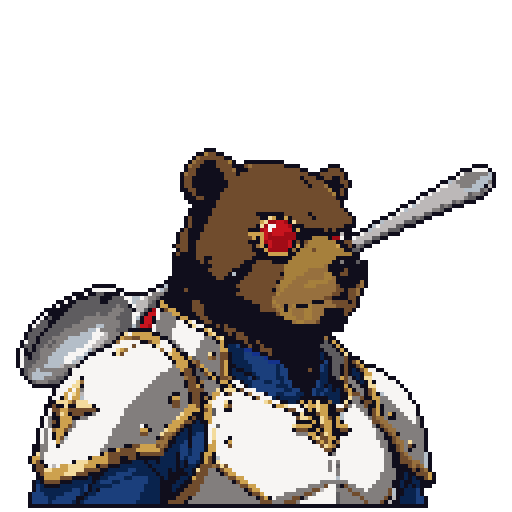
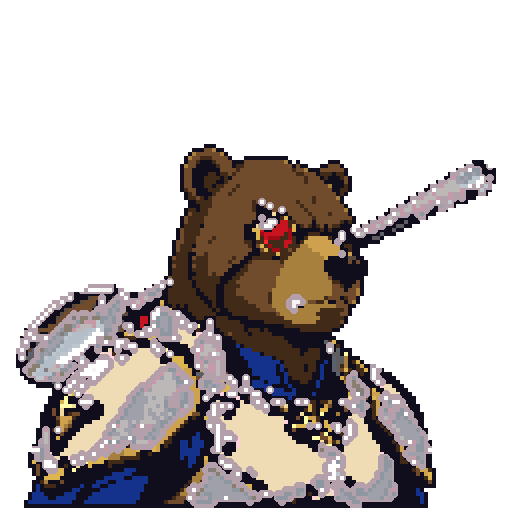
art(npcs): pronounce faces @128 (outlines, eyes, cleanup)
Bold-face v6 gens + pipeline: mild face unsharp, protect face detail
during cine palette remap, selective outlines, orphan cleanup.
Thicken Don spoon; strip Teknium non-goggle red/warm stray pixels.

Changed region(s): [[0.0312, 0.2812, 0.9688, 1.0], [0.0312, 0.9688, 0.0625, 1.0]]

diff --git a/scripts/asset_px3_npcs.py b/scripts/asset_px3_npcs.py
@@ -19,8 +19,8 @@ from asset_px3 import to_native_mode
 
 NPC_N = 128
 NPC_FACTOR = 4
-PORT_COLORS = 32
-BUST_COLORS = 28
+PORT_COLORS = 40
+BUST_COLORS = 36
 PORT_H = 120
 BUST_H = 96
 IDLE_H = 72
@@ -28,10 +28,10 @@ OUTLINE = (16, 14, 28)
 
 # Lab k-means palettes sampled from Clawpocalypse cine/v3 portraits (not generations).
 CINE_PALETTES = {
-  "don_piedro": [[16,14,28],[205,161,78],[247,245,243],[27,63,124],[188,184,184],[33,21,22],[51,33,20],[243,219,157],[166,128,60],[20,50,140],[180,190,200],[200,20,30],[240,220,180],[90,55,30],[112,76,45],[64,62,63],[161,11,22],[130,126,125],[94,92,95],[66,42,24],[151,112,62],[215,203,179],[9,35,77],[43,26,19],[7,25,55]],
-  "nous_girl": [[16,14,28],[252,251,247],[93,91,90],[164,161,159],[130,128,127],[213,210,208],[191,188,186],[254,254,254],[40,35,35],[70,65,65],[110,105,105],[230,210,195],[245,220,205],[20,18,18],[55,50,48],[150,145,140],[180,160,145]],
+  "don_piedro": [[16,14,28],[205,161,78],[247,245,243],[27,63,124],[188,184,184],[33,21,22],[51,33,20],[243,219,157],[166,128,60],[20,50,140],[180,190,200],[200,20,30],[240,220,180],[90,55,30],[112,76,45],[64,62,63],[161,11,22],[130,126,125],[94,92,95],[66,42,24],[151,112,62],[215,203,179],[9,35,77],[43,26,19],[7,25,55],[230,200,150],[120,80,50],[80,50,30],[255,40,40],[220,180,80],[160,160,170]],
+  "nous_girl": [[16,14,28],[252,251,247],[93,91,90],[164,161,159],[130,128,127],[213,210,208],[191,188,186],[254,254,254],[40,35,35],[70,65,65],[110,105,105],[230,210,195],[245,220,205],[20,18,18],[55,50,48],[150,145,140],[180,160,145],[255,220,190],[240,190,160],[200,150,120],[60,40,30],[30,20,18],[80,55,40]],
   "teknium": [[16,14,28],[67,169,123],[5,85,48],[247,191,139],[221,12,35],[117,226,166],[11,78,60],[23,115,55],[40,160,130],[20,120,100],[80,200,160],[10,90,70],[255,255,255],[240,240,240],[30,30,30],[85,57,43],[200,30,40],[180,160,140],[50,140,100]],
-  "southpaw": [[16,14,28],[92,22,22],[197,122,74],[155,91,56],[110,25,22],[193,105,56],[31,30,34],[66,62,65],[65,16,17],[220,140,90],[40,38,42],[120,120,130],[250,220,190],[180,60,40],[90,88,95],[140,50,40]],
+  "southpaw": [[16,14,28],[92,22,22],[197,122,74],[155,91,56],[110,25,22],[193,105,56],[31,30,34],[66,62,65],[65,16,17],[220,140,90],[40,38,42],[120,120,130],[250,220,190],[180,60,40],[90,88,95],[140,50,40],[255,255,255],[230,180,140],[200,140,100],[60,40,30],[30,20,15],[240,100,50]],
 }
 
 NPCS = [
@@ -123,17 +123,32 @@ def clothing_lift_preserve_sat(keyed: Image.Image, lum_ceil: float = 70.0, lift:
     a[..., :3] = rgb.astype(np.uint8)
     return Image.fromarray(a, "RGBA")
 
-def remap_to_palette(native: Image.Image, palette: list[list[int]]) -> Image.Image:
-    """Map every opaque native pixel to nearest cine palette colour (RGB Euclidean)."""
+def remap_to_palette(native: Image.Image, palette: list[list[int]], protect_face: bool = True) -> Image.Image:
+    """Map opaque pixels to nearest cine palette colour; optionally keep high-contrast face pixels."""
     a = np.asarray(native).copy()
     pal = np.asarray(palette, dtype=np.float32)
     m = a[..., 3] > 0
     if not m.any():
         return native
-    pix = a[m, :3].astype(np.float32)
+    pre = a[..., :3].astype(np.float32).copy()
+    pix = pre[m]
     d = ((pix[:, None, :] - pal[None, :, :]) ** 2).sum(-1)
-    a[m, :3] = pal[d.argmin(1)].astype(np.uint8)
-    # force outline colour on silhouette edge
+    mapped = pal[d.argmin(1)]
+    a[m, :3] = mapped.astype(np.uint8)
+    if protect_face:
+        lum = pre.mean(-1)
+        mx, mn = pre.max(-1), pre.min(-1)
+        sat = (mx - mn) / np.maximum(mx, 1)
+        skin = m & (lum > 70) & (lum < 235) & (sat < 0.55) & (pre[..., 0] > pre[..., 2] * 0.7)
+        # high-local-contrast inside skin = eyes/mouth/nose — keep original quantized colour
+        gy = ndimage.sobel(lum, axis=0); gx = ndimage.sobel(lum, axis=1)
+        mag = np.hypot(gx, gy)
+        detail = skin & (mag >= (np.percentile(mag[skin], 55) if skin.any() else 999))
+        # also keep very dark eye/mouth pixels and white highlights on/near skin
+        dark = skin & (lum < 60)
+        hi = m & (lum > 230) & ndimage.binary_dilation(skin, iterations=2)
+        keep = detail | dark | hi
+        a[keep, :3] = pre[keep].astype(np.uint8)
     edge = m & ~ndimage.binary_erosion(m, structure=np.array([[0, 1, 0], [1, 1, 1], [0, 1, 0]]))
     a[edge, :3] = OUTLINE
     return Image.fromarray(a, "RGBA")
@@ -156,23 +171,185 @@ def fit_native(keyed, colors, target_h, max_side=NPC_N - 2):
         n = to_native_mode(keyed, colors, height=max_side)
     return n
 
+
+def face_enhance(keyed: Image.Image) -> Image.Image:
+    """Mild unsharp on face skin only — preserve gen eye/mouth pixels."""
+    a = np.asarray(keyed).astype(np.float32)
+    rgb, alpha = a[..., :3], a[..., 3]
+    opaque = alpha > 128
+    if not opaque.any():
+        return keyed
+    lum = rgb.mean(-1)
+    mx, mn = rgb.max(-1), rgb.min(-1)
+    sat = (mx - mn) / np.maximum(mx, 1)
+    skin = opaque & (lum > 75) & (lum < 235) & (sat < 0.5) & (rgb[..., 0] > rgb[..., 2] * 0.75)
+    skin = ndimage.binary_dilation(skin, iterations=2) & opaque
+    blur = ndimage.gaussian_filter(lum, sigma=1.2)
+    sharp = np.clip(lum + 0.85 * (lum - blur), 0, 255)
+    scale = np.clip(sharp / np.maximum(lum, 1e-3), 0.75, 1.35)
+    out = rgb.copy()
+    out[skin] = np.clip(rgb[skin] * scale[skin, None], 0, 255)
+    a[..., :3] = out
+    return Image.fromarray(a.astype(np.uint8), "RGBA")
+
+def cleanup_orphans(native: Image.Image) -> Image.Image:
+    """Remove 1-pixel orphans and fill 1px holes inside silhouette."""
+    a = np.asarray(native).copy()
+    m = a[..., 3] > 0
+    # drop tiny components
+    lab, n = ndimage.label(m)
+    if n:
+        sizes = ndimage.sum(np.ones_like(lab), lab, range(1, n + 1))
+        keep = np.isin(lab, [i + 1 for i, s in enumerate(sizes) if s >= max(3, sizes.max() * 0.002)])
+        a[..., 3] = np.where(keep, a[..., 3], 0)
+        m = a[..., 3] > 0
+    # fill single-pixel holes
+    holes = (~m) & ndimage.binary_dilation(m)
+    # only fill if all 4-neighbors opaque
+    for y, x in zip(*np.where(holes)):
+        nb = [(y-1,x),(y+1,x),(y,x-1),(y,x+1)]
+        cols = []
+        ok = True
+        for yy, xx in nb:
+            if yy < 0 or xx < 0 or yy >= m.shape[0] or xx >= m.shape[1] or not m[yy, xx]:
+                ok = False; break
+            cols.append(a[yy, xx, :3])
+        if ok and cols:
+            a[y, x, :3] = np.median(cols, axis=0).astype(np.uint8)
+            a[y, x, 3] = 255
+    return Image.fromarray(a, "RGBA")
+
+def strengthen_face_outlines(native: Image.Image) -> Image.Image:
+    """Selective 1px darken on strongest face-interior edges only."""
+    a = np.asarray(native).copy()
+    m = a[..., 3] > 0
+    if m.sum() < 20:
+        return native
+    rgb = a[..., :3].astype(np.int16)
+    lum = rgb.mean(-1).astype(float)
+    gy = ndimage.sobel(lum, axis=0); gx = ndimage.sobel(lum, axis=1)
+    mag = np.hypot(gx, gy)
+    mx = rgb.max(-1); mn = rgb.min(-1)
+    sat = (mx - mn) / np.maximum(mx, 1)
+    skin = m & (lum > 60) & (lum < 230) & (sat < 0.6)
+    skin = ndimage.binary_dilation(skin, iterations=1) & m
+    if not skin.any():
+        return native
+    thr = np.percentile(mag[skin], 82)
+    edge = skin & (mag >= thr) & ndimage.binary_erosion(m)
+    a[edge, :3] = OUTLINE
+    return Image.fromarray(a, "RGBA")
+
+def fix_teknium_red_neck(native: Image.Image) -> Image.Image:
+    """Keep red only where it forms goggle stripes (red+white checker in a compact upper band); else skin."""
+    a = np.asarray(native).copy()
+    rgb = a[..., :3].astype(np.int16)
+    m = a[..., 3] > 0
+    red = m & (rgb[..., 0] > 110) & (rgb[..., 0] > rgb[..., 1] + 35) & (rgb[..., 0] > rgb[..., 2] + 35) & (rgb[..., 1] < 140)
+    white = m & (rgb[..., 0] > 210) & (rgb[..., 1] > 210) & (rgb[..., 2] > 210)
+    # goggle candidates: red adjacent to white AND white adjacent to red, in upper half of sprite
+    ys = np.where(m)[0]
+    if len(ys) == 0:
+        return native
+    y0, y1 = int(ys.min()), int(ys.max())
+    y_mid = y0 + int(0.45 * (y1 - y0))  # goggles live in upper ~45% of character
+    upper = np.zeros_like(m); upper[:y_mid, :] = True
+    red_u = red & upper
+    white_u = white & upper
+    # stripe = red touching white within upper band
+    keep = red_u & ndimage.binary_dilation(white_u, iterations=2)
+    # also keep white-touching reds that are in a horizontal band of dense red+white
+    remove = red & ~keep
+    if remove.any():
+        skin = m & ~red & (rgb[..., 0] > 130) & (rgb[..., 1] > 85) & (rgb[..., 1] < 220) & (rgb[..., 2] > 60) & (rgb[..., 0] + 10 >= rgb[..., 2])
+        skin_col = np.median(rgb[skin], axis=0).astype(np.uint8) if skin.any() else np.array([220, 170, 130], np.uint8)
+        # for remove in hair region (high teal neighbor), use hair colour instead
+        teal = m & (rgb[..., 1] > 100) & (rgb[..., 2] > 70) & (rgb[..., 0] < 120)
+        hair_col = np.median(rgb[teal], axis=0).astype(np.uint8) if teal.any() else skin_col
+        near_hair = ndimage.binary_dilation(teal, iterations=2)
+        a[remove & near_hair, :3] = hair_col
+        a[remove & ~near_hair, :3] = skin_col
+    return Image.fromarray(a, "RGBA")
+
+
+def boost_eye_pixels(native: Image.Image) -> Image.Image:
+    """In skin neighborhoods, reinforce dark eye clusters with pupil + 1 white highlight."""
+    a = np.asarray(native).copy()
+    rgb = a[..., :3].astype(np.int16)
+    m = a[..., 3] > 0
+    lum = rgb.mean(-1)
+    mx, mn = rgb.max(-1), rgb.min(-1)
+    sat = (mx - mn) / np.maximum(mx, 1)
+    skin = m & (lum > 90) & (lum < 230) & (sat < 0.55) & (rgb[..., 0] > rgb[..., 2] * 0.75)
+    dark = m & (lum < 55)
+    # dark blobs touching skin = candidate eyes
+    touch = dark & ndimage.binary_dilation(skin, iterations=2)
+    lab, n = ndimage.label(touch)
+    for i in range(1, n + 1):
+        ys, xs = np.where(lab == i)
+        if not (3 <= len(ys) <= 40):
+            continue
+        # paint center darker + one highlight
+        cy, cx = int(ys.mean()), int(xs.mean())
+        for dy, dx in [(0,0),(0,1),(1,0)]:
+            yy, xx = cy+dy, cx+dx
+            if 0 <= yy < a.shape[0] and 0 <= xx < a.shape[1] and m[yy, xx]:
+                a[yy, xx, :3] = (16, 14, 28)
+        hy, hx = cy - 1, cx + 1
+        if 0 <= hy < a.shape[0] and 0 <= hx < a.shape[1] and m[hy, hx]:
+            a[hy, hx, :3] = (255, 255, 255)
+    return Image.fromarray(a, "RGBA")
+
+def thicken_spoon(native: Image.Image) -> Image.Image:
+    """Dilate thin silver spoon handle pixels so the prop reads."""
+    a = np.asarray(native).copy()
+    rgb = a[..., :3].astype(np.int16)
+    m = a[..., 3] > 0
+    silver = m & (rgb[..., 0] > 140) & (rgb[..., 1] > 140) & (rgb[..., 2] > 140) & (np.abs(rgb[..., 0] - rgb[..., 1]) < 35) & (np.abs(rgb[..., 1] - rgb[..., 2]) < 35)
+    # also mid greys that are spoon
+    grey = m & (rgb.mean(-1) > 120) & (rgb.mean(-1) < 210) & (rgb.std(-1) < 18)
+    spoon = silver | grey
+    if spoon.sum() < 8:
+        return native
+    dil = ndimage.binary_dilation(spoon, iterations=1) & m
+    add = dil & ~spoon
+    if add.any():
+        # paint with median spoon colour
+        col = np.median(rgb[spoon], axis=0).astype(np.uint8)
+        a[add, :3] = col
+        a[add, 3] = 255
+    return Image.fromarray(a, "RGBA")
+
+
 def process_npc(key: str, keyed: Image.Image, colors: int, height: int) -> Image.Image:
     allow_teal = key == "teknium"
     k = strip_key_greens(keyed, allow_teal=allow_teal)
     if key in ("teknium", "southpaw"):
         k = clothing_lift_preserve_sat(k)
+    k = face_enhance(k)
     n = fit_native(k, colors, height)
     n = remap_to_palette(n, CINE_PALETTES[key])
-    # second green strip after remap for non-teknium
     if key != "teknium":
         n = strip_key_greens(n, allow_teal=False)
+    n = strengthen_face_outlines(n)
+    n = cleanup_orphans(n)
+    if key == "teknium":
+        n = fix_teknium_red_neck(n)
+    else:
+        n = boost_eye_pixels(n)
+    if key == "don_piedro":
+        n = thicken_spoon(n)
+        n = thicken_spoon(n)  # second pass for readable handle
+        n = boost_eye_pixels(n)
+    n = strengthen_face_outlines(n)
+    n = cleanup_orphans(n)
     return n
 
 def main():
     out = A / "px3" / "npcs"; out.mkdir(parents=True, exist_ok=True); entries = []
     for e in NPCS:
         key = e["id"].split(".")[1]
-        src = SRC / f"px3_npc_{key}_v5.jpg"
+        src = SRC / f"px3_npc_{key}_v6.jpg"
         keyed = key_magenta(src)
         port = process_npc(key, keyed, PORT_COLORS, PORT_H)
         pcv = place_npc(port, (NPC_N - port.width) // 2, NPC_N - 1 - port.height)

diff --git a/assets/PROVENANCE.md b/assets/PROVENANCE.md
@@ -53,15 +53,15 @@ Kyle asked: "i want them to be more pixelated. regenerate them entirely please i
 | px3/items/binary_crown, propeller_beanie, syntax_wizard, pixel_shades, gold_monocle, circuit_wings, tiny_jetpack, ember_halo, data_orbit, cozy_scarf, heart_bubble, plush_cushion, royal_ribbon | source/px3_item_{crown,beanie,wizard,shades,monocle,wings,jetpack,aura_flame,aura_orbit,scarf,emote,cushion,ribbon}_v1.jpg |
 | px3/palettes, px3/markings, px3/overlays | procedural |
 
-### NPCs (launch-003) — palette/key fix, 2026-11-05
-Kyle reviewed the prior 128px pass: Teknium hair washed white, Don Piedro palette muddy, green in Nous Girl hair. Fixes: regenerate on **magenta** chroma key (teal hair safe), drop global brighten (clothing-only sat-preserving lift for dark kits), Lab k-means palettes sampled from **cine/v3 portraits** remapped after quantize, strip chroma-green fringe (teal allowed only for Teknium). Still cine portraits primary, title secondary; not heroes/portraits or sprites. Native **128×128** factor 4. 4 generations (`*_v5.jpg`).
+### NPCs (launch-003) — face readability pass, 2026-11-05
+Kyle: facial features still not pronounced enough on 37f5fa0. Kept magenta key, cine Lab palettes, 128 native. Regenerated with bold-face prompts (`*_v6.jpg`, 4 gens). Pipeline: mild face unsharp, protect high-contrast face pixels during palette remap, selective face outlines, orphan cleanup, Teknium non-goggle red/warm stray removal, Don spoon thicken. Portrait + dialog + idle. Pets stay 32.
 
 | Output | Source | Reference (primary) |
 |---|---|---|
-| px3/npcs/don_piedro_{portrait,dialog,idle_*} | source/px3_npc_don_piedro_v5.jpg | cine/v3/portraits/don_piedro.png |
-| px3/npcs/nous_girl_* | source/px3_npc_nous_girl_v5.jpg | cine/v3/portraits/nous_girl.png |
-| px3/npcs/teknium_* | source/px3_npc_teknium_v5.jpg | cine/v3/portraits/teknium.png |
-| px3/npcs/southpaw_* | source/px3_npc_southpaw_v5.jpg | cine/v3/portraits/turbofit.png |
+| px3/npcs/don_piedro_{portrait,dialog,idle_*} | source/px3_npc_don_piedro_v6.jpg | cine/v3/portraits/don_piedro.png |
+| px3/npcs/nous_girl_* | source/px3_npc_nous_girl_v6.jpg | cine/v3/portraits/nous_girl.png |
+| px3/npcs/teknium_* | source/px3_npc_teknium_v6.jpg | cine/v3/portraits/teknium.png |
+| px3/npcs/southpaw_* | source/px3_npc_southpaw_v6.jpg | cine/v3/portraits/turbofit.png |
 
 
 ### launch-003 extra species (7), 2026-11-05

diff --git a/docs/ART_RESEARCH.md b/docs/ART_RESEARCH.md
@@ -32,4 +32,4 @@ Short notes on the practices this pipeline uses and why.
 - **Safe region.** At a factor of 16, the contract's safe box (x 65..447, y 75..450) works out to native columns and rows 5..27. Bodies are 22–23 native px tall, so we drew larger cosmetics small and enlarge them at render time with the manifest `scale` field (for example auras at ×1.25).
 - **Hand cleanup.** A tiny per-species fixup table restores eye pixels lost at 32px: Patchfox's eye dots and Nullgeist's magenta X eye. Hand-fixing pixels like this is normal pixel-art practice.
 - **Markings.** These are drawn sparsely (2–8 native px) so they don't turn into noise.
-- **NPCs.** Cinematic portraits primary (`assets/cine/v3/portraits/…`). **Magenta** edge-flood key (teal hair safe), clothing-only sat-preserving lift (no global wash), Lab k-means palette remap from the cine refs, chroma-green fringe strip. Native **128×128** (factor 4), ~32 colours, portrait + dialog bust + idle. Pets stay 32.
+- **NPCs.** Cinematic portraits primary. Magenta key, cine Lab palette remap with **face-detail protection**, mild face unsharp + selective outlines + orphan cleanup, Teknium goggle-safe red strip, Don spoon thicken. Native **128×128** (factor 4). Pets stay 32.
